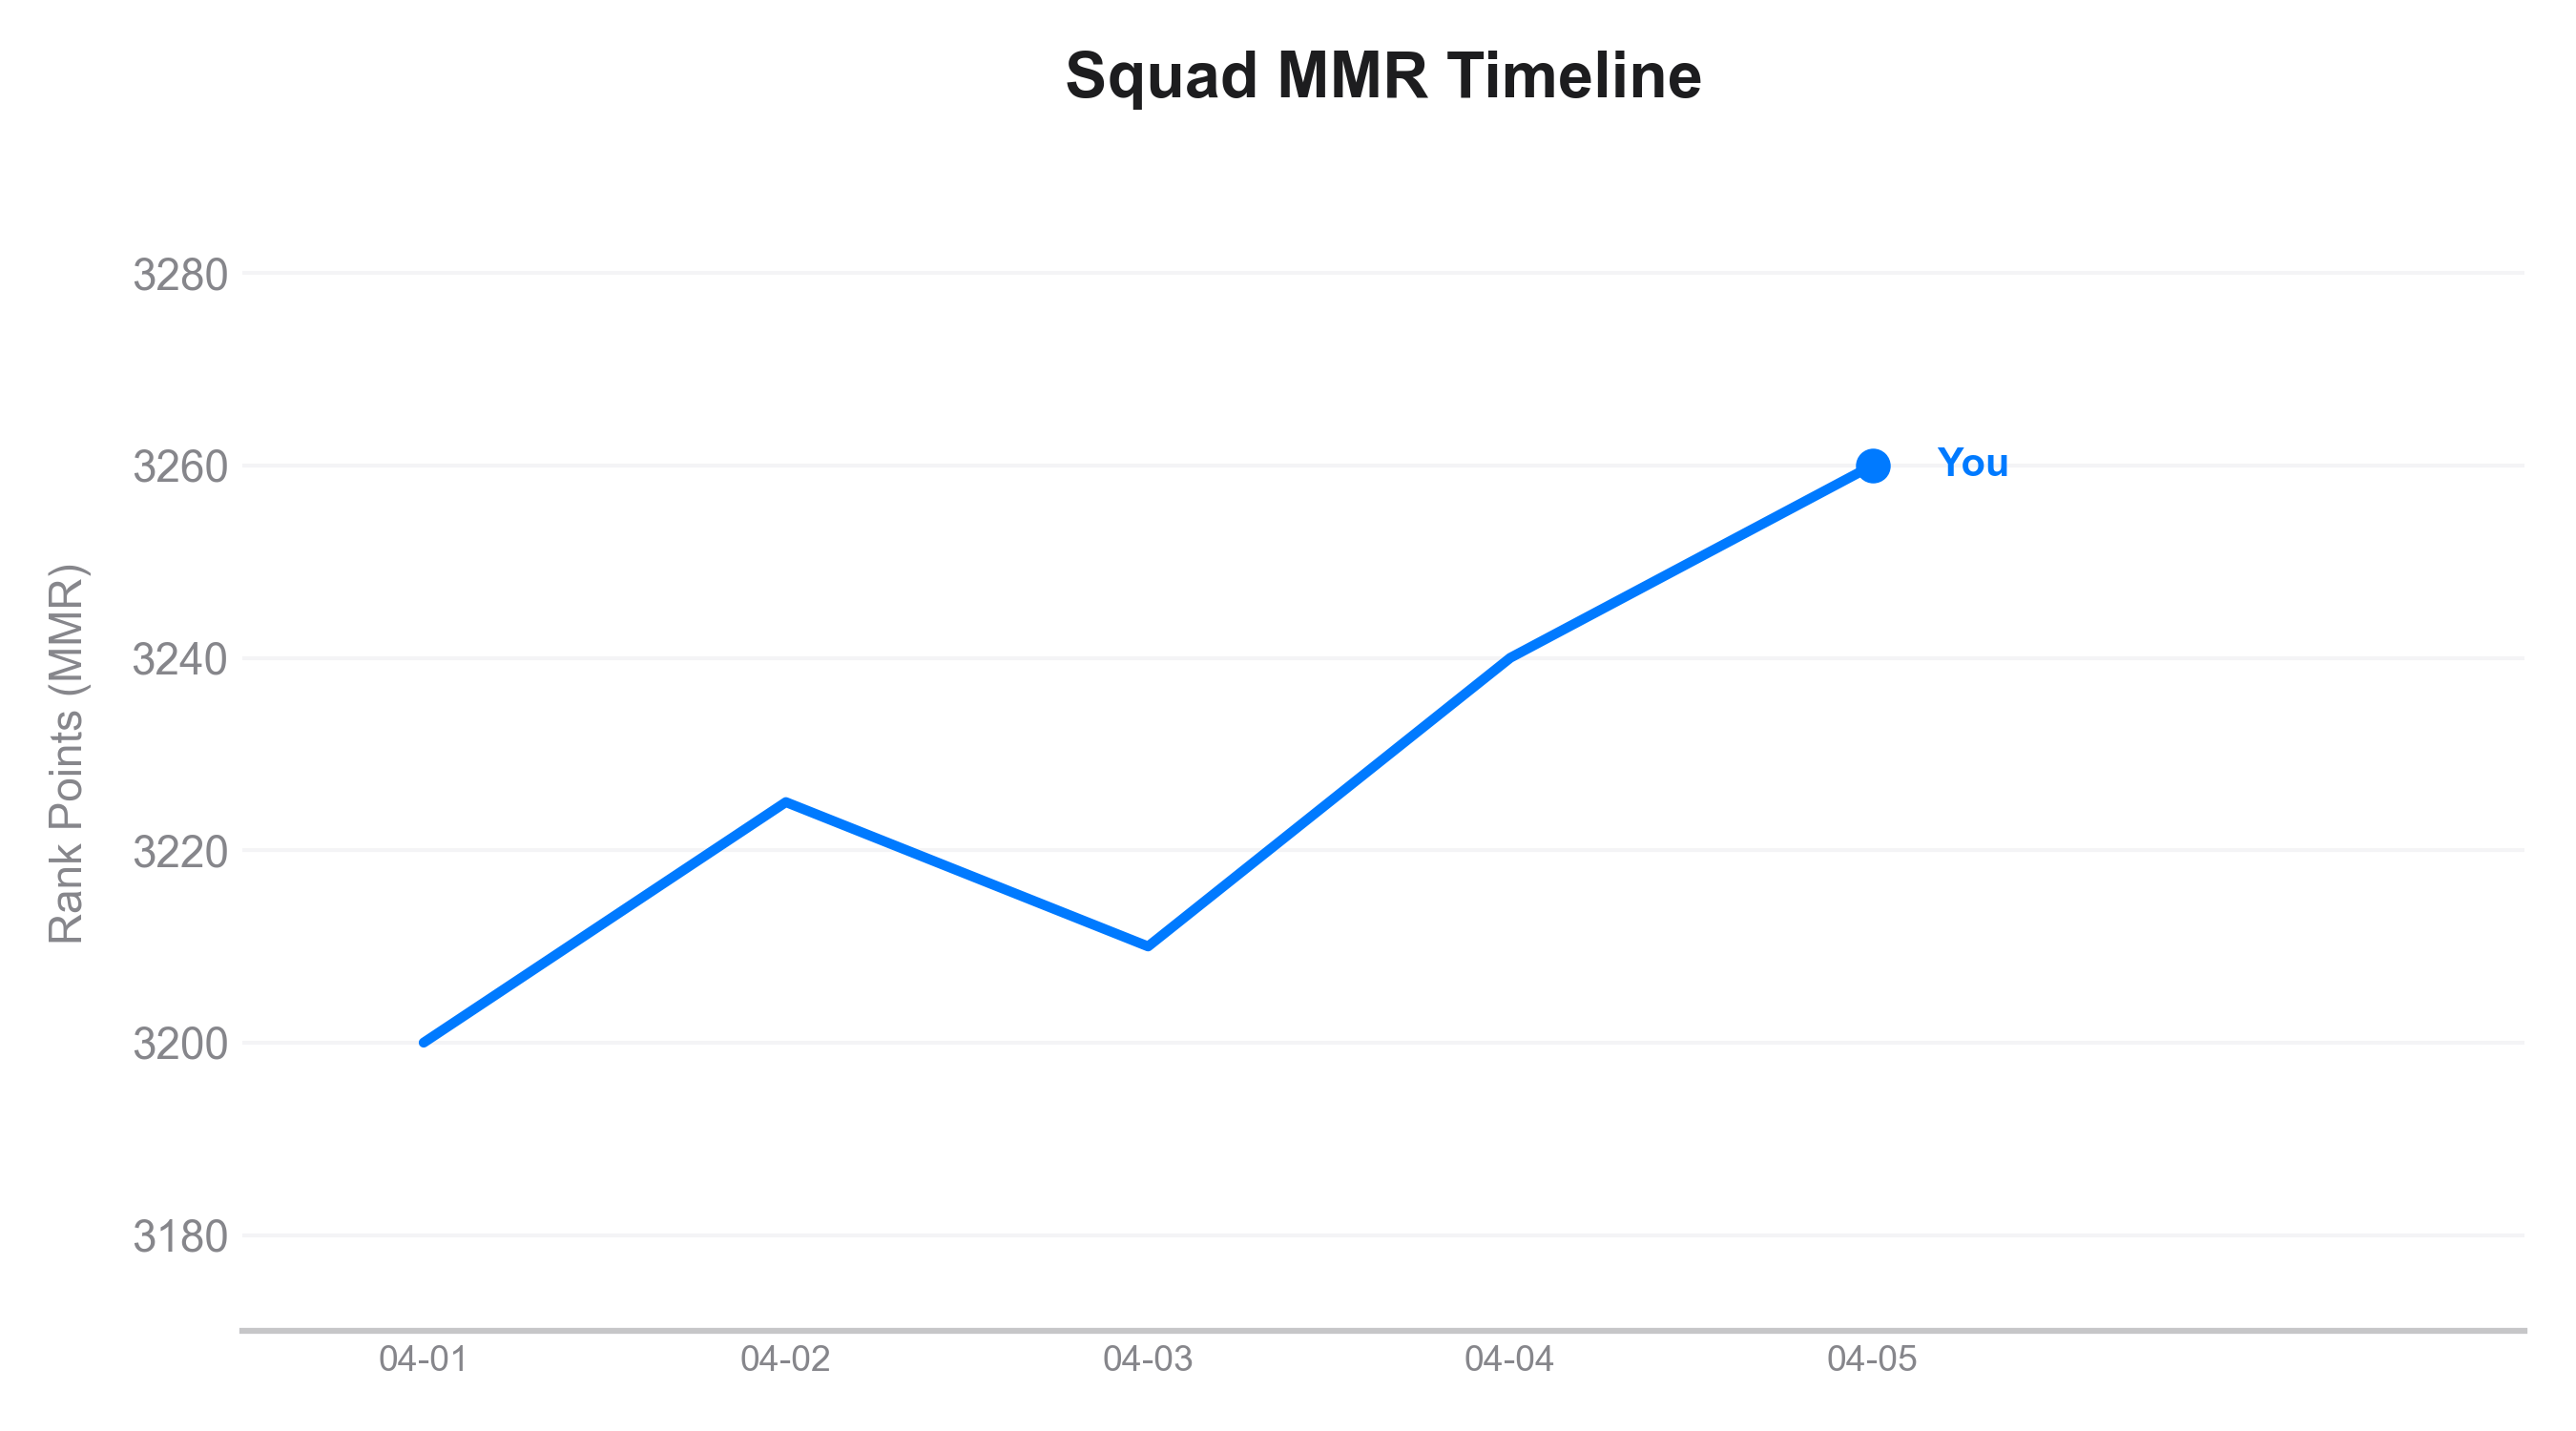
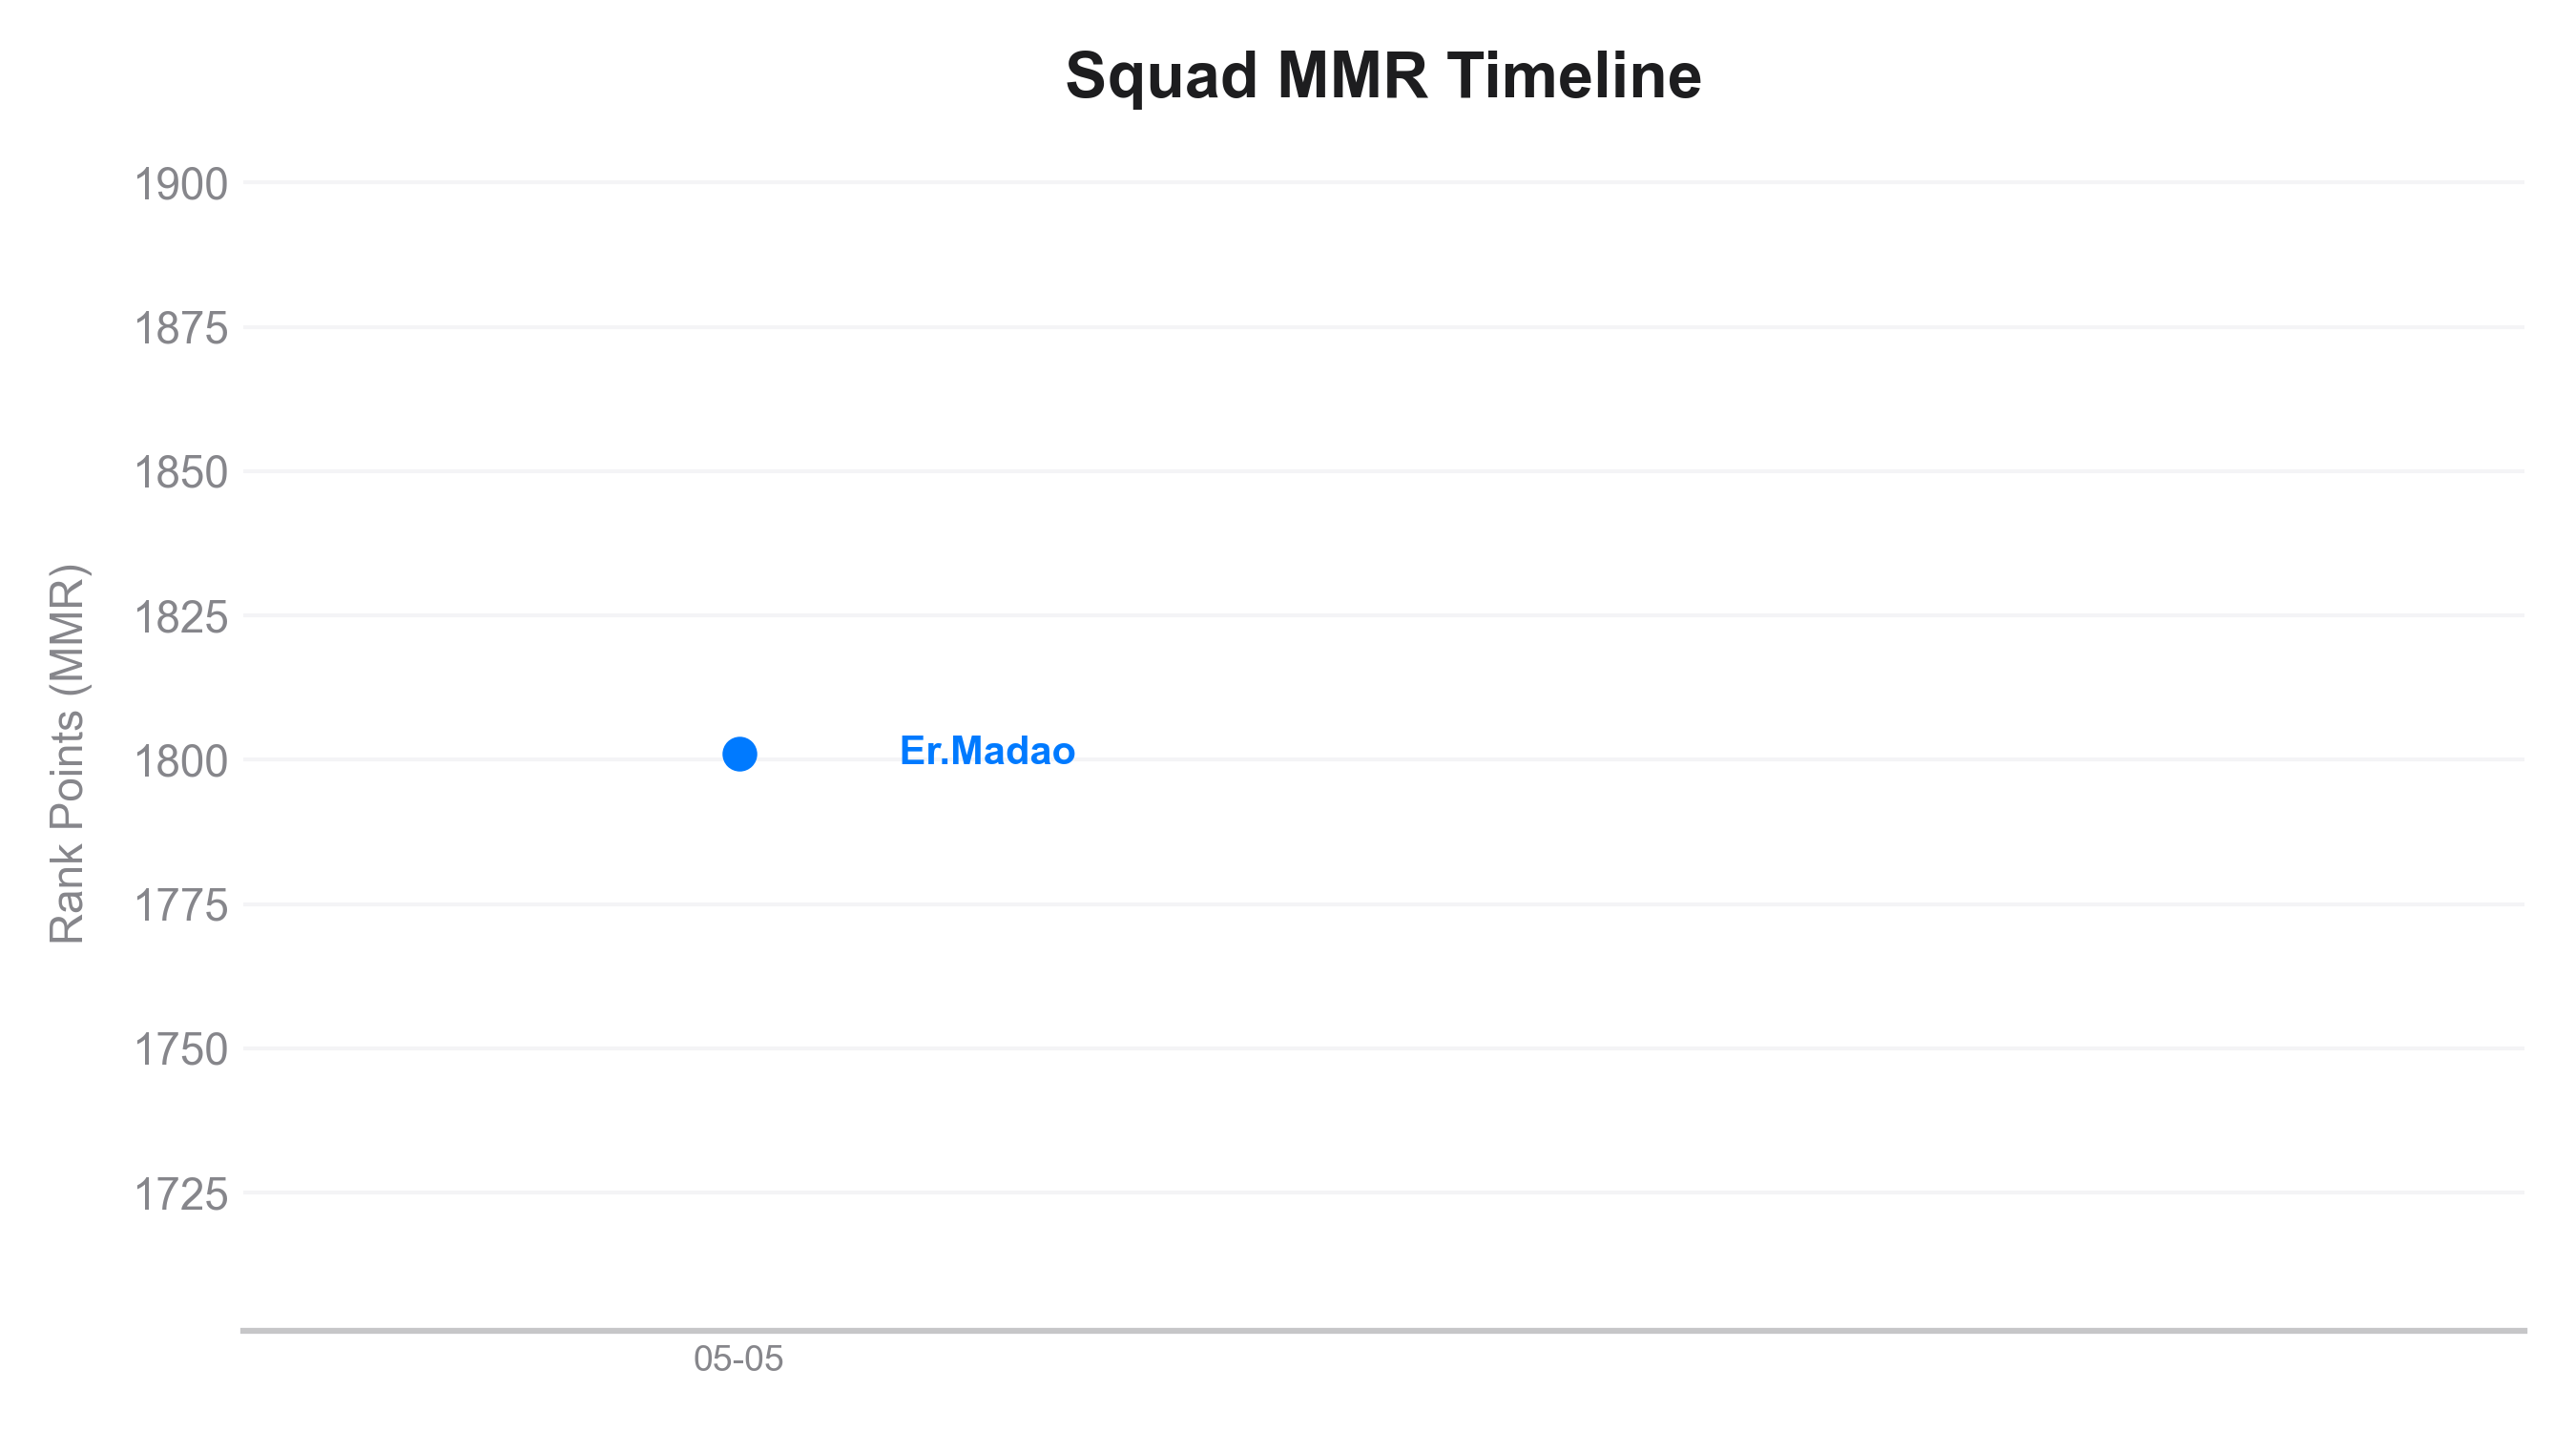
feat: Upgrade to Discord Slash Commands (V5.0) and finalize Playwright scraper integration

diff --git a/src/main.py b/src/main.py
@@ -3,6 +3,7 @@ import json
 import discord
 import pandas as pd
 from discord.ext import commands
+from discord import app_commands
 from dotenv import load_dotenv
 
 from data_processor import load_match_data_from_db, get_synergy_stats
@@ -14,8 +15,6 @@ load_dotenv()
 TOKEN = os.getenv('DISCORD_TOKEN')
 
 intents = discord.Intents.default()
-intents.message_content = True
-
 bot = commands.Bot(command_prefix='!', intents=intents)
 
 USERS_FILE = 'data/users.json'
@@ -34,50 +33,53 @@ def save_users(users_data: dict) -> None:
 async def on_ready():
     print(f'System Online: Logged in securely as {bot.user.name}')
     init_db()
+    try:
+        synced = await bot.tree.sync()
+        print(f"Synced {len(synced)} Slash Commands to Discord.")
+    except Exception as e:
+        print(f"Failed to sync commands: {e}")
 
[email redacted](name='ping')
-async def ping(ctx):
-    await ctx.send(f'Pong! 🏓 Gateway latency: {round(bot.latency * 1000)}ms.')
[email redacted](name='ping', description='Check the latency of the bot.')
+async def ping(interaction: discord.Interaction):
+    await interaction.response.send_message(f'Pong! 🏓 Gateway latency: {round(bot.latency * 1000)}ms.')
 
[email redacted](name='register')
-async def register(ctx, r6_name: str):
-    discord_id = str(ctx.author.id)
[email redacted](name='register', description='Link your Discord account to your exact Ubisoft name.')
+@app_commands.describe(r6_name="Your exact Ubisoft username")
+async def register(interaction: discord.Interaction, r6_name: str):
+    discord_id = str(interaction.user.id)
     users = load_users()
     users[discord_id] = r6_name
     save_users(users)
-    await ctx.send(f"✅ **Registration Complete:** Your Discord is now linked to R6 Player: `{r6_name}`")
+    await interaction.response.send_message(f"✅ **Registration Complete:** Your Discord is now linked to R6 Player: `{r6_name}`")
 
[email redacted](name='rank')
-async def rank(ctx, *members: discord.Member):
-    users = load_users()
-    target_members = members if members else [ctx.author]
-    players_to_graph = []
[email redacted](name='rank', description='Generates an MMR timeline for you and your squad.')
+@app_commands.describe(p1="Squad Member 1", p2="Squad Member 2", p3="Squad Member 3")
+async def rank(interaction: discord.Interaction, p1: discord.Member = None, p2: discord.Member = None, p3: discord.Member = None):
+    await interaction.response.defer()
     
-    status_msg = await ctx.send("🕵️♂️ *Deploying Ghost Browser for MMR Telemetry...*")
-    live_data_found = False
+    users = load_users()
+    target_members = [interaction.user]
+    if p1: target_members.append(p1)
+    if p2: target_members.append(p2)
+    if p3: target_members.append(p3)
+    
+    players_to_graph = []
+    log_messages = []
 
     for member in target_members:
         discord_id = str(member.id)
         r6_name = users.get(discord_id, member.display_name)
+        players_to_graph.append(r6_name)
         
         df_matches = await fetch_recent_matches(r6_name)
         
         if not df_matches.empty and 'RP' in df_matches.columns:
             mmr = int(df_matches.iloc[0]['RP'])
             rank_name = "Ranked (Scraped)"
-            
             log_mmr(r6_name, mmr, rank_name)
-            
-            await ctx.send(f"📡 **Live Scraped Stats for {r6_name}:**\nMMR: **{mmr}**\n*(Snapshot saved to database)*")
-            live_data_found = True
+            log_messages.append(f"✅ Extracted **{mmr}** MMR for {r6_name}")
         else:
-            players_to_graph.append(r6_name)
-
-    if not players_to_graph:
-        await status_msg.delete()
-        if not live_data_found:
-            await ctx.send("❌ **Error:** Scraper failed to extract RP. R6Tracker may be blocking the request.")
-        return
+            log_messages.append(f"⚠️ Scrape failed for {r6_name}. Using local data if available.")
 
     try:
         df = load_match_data_from_db()
@@ -87,66 +89,78 @@ async def rank(ctx, *members: discord.Member):
             if player in df.columns:
                 valid_columns.append(player)
             else:
-                await ctx.send(f"⚠️ **Notice:** No local match data found for `{player}`. Type `!register <R6_Name>` to fix.")
+                log_messages.append(f"❌ No history found for `{player}`. Ensure they are registered.")
                 
         if len(valid_columns) == 1:
-            return await status_msg.edit(content="❌ **Error:** Aborting render. No valid data columns found.")
+            await interaction.edit_original_response(content="\n".join(log_messages) + "\n\n**Aborting:** No valid data to graph.")
+            return
             
         filtered_df = df[valid_columns]
         chart_path = generate_mmr_chart(filtered_df)
         
         discord_file = discord.File(chart_path, filename="mmr_timeline.png")
-        await ctx.send(content="**Squad MMR Timeline (Local Database)**", file=discord_file)
-        await status_msg.delete()
+        header = "**Squad MMR Timeline**\n" + "\n".join(log_messages)
+        
+        await interaction.edit_original_response(content=header, attachments=[discord_file])
         
     except Exception as e:
-        await ctx.send(f"⚠️ **CRITICAL ERROR:** Failed to process telemetry.\n`{e}`")
+        await interaction.edit_original_response(content=f"⚠️ **CRITICAL ERROR:** \n`{e}`")
 
[email redacted](name='mapban')
-async def mapban(ctx, r6_name: str = None):
-    if not r6_name:
-        users = load_users()
-        r6_name = users.get(str(ctx.author.id))
-        if not r6_name:
-            await ctx.send("⚠️ You aren't registered! Type `!register <R6_Name>` or use `!mapban <R6_Name>`.")
-            return
-
-    status_msg = await ctx.send(f"🕵️♂️ *Deploying Ghost Browser... scraping live match history for **{r6_name}**...*")
[email redacted](name='mapban', description='Generates a map ban guide. Filters for shared matches if friends are tagged.')
+@app_commands.describe(p1="Squad Member 1", p2="Squad Member 2")
+async def mapban(interaction: discord.Interaction, p1: discord.Member = None, p2: discord.Member = None):
+    await interaction.response.defer()
     
+    users = load_users()
+    target_members = [interaction.user]
+    if p1: target_members.append(p1)
+    if p2: target_members.append(p2)
+
     try:
-        df = await fetch_recent_matches(r6_name)
-        
-        if df.empty:
-            await status_msg.edit(content=f"❌ Failed to extract match data for {r6_name}.")
+        scraped_dfs = []
+        for member in target_members:
+            r6_name = users.get(str(member.id), member.display_name)
+            df = await fetch_recent_matches(r6_name)
+            if not df.empty:
+                scraped_dfs.append(df)
+
+        if not scraped_dfs:
+            await interaction.edit_original_response(content="❌ Failed to extract match data for any players.")
             return
 
-        map_stats = pd.crosstab(df['Map'], df['Result'])
+        squad_df = scraped_dfs[0]
+        if len(scraped_dfs) > 1:
+            for next_df in scraped_dfs[1:]:
+                squad_df = pd.merge(squad_df, next_df, on=['Map', 'Result'], how='inner')
+
+        if squad_df.empty:
+            await interaction.edit_original_response(content="❌ **No Shared Matches Found:** You don't have any recent overlapping matches with this squad.")
+            return
+
+        map_stats = pd.crosstab(squad_df['Map'], squad_df['Result'])
         
-        if 'Win' not in map_stats.columns:
-            map_stats['Win'] = 0
-        if 'Loss' not in map_stats.columns:
-            map_stats['Loss'] = 0
+        if 'Win' not in map_stats.columns: map_stats['Win'] = 0
+        if 'Loss' not in map_stats.columns: map_stats['Loss'] = 0
 
         chart_path = generate_map_chart(map_stats)
         discord_file = discord.File(chart_path, filename="mapban.png")
         
-        await ctx.send(content=f"📊 **Live Map Analytics for {r6_name}** (Last {len(df)} Matches)", file=discord_file)
-        await status_msg.delete()
+        title = f"Live Map Analytics for Squad" if len(scraped_dfs) > 1 else f"Live Map Analytics for {target_members[0].display_name}"
+        await interaction.edit_original_response(content=f"📊 **{title}** (Found {len(squad_df)} Shared Matches)", attachments=[discord_file])
         
     except Exception as e:
-        await ctx.send(f"⚠️ **CRITICAL ERROR:** Failed to process map analytics.\n`{e}`")
+        await interaction.edit_original_response(content=f"⚠️ **CRITICAL ERROR:** \n`{e}`")
 
[email redacted](name='synergy')
-async def synergy(ctx):
-    status_msg = await ctx.send("⏳ *Running Data Science Synergy Engine...*")
[email redacted](name='synergy', description='View Data Science Operator Synergy Ratings.')
+async def synergy(interaction: discord.Interaction):
+    await interaction.response.defer()
     try:
         synergy_analytics = get_synergy_stats('data/synergy_data.json')
         chart_path = generate_synergy_chart(synergy_analytics)
         discord_file = discord.File(chart_path, filename="synergy_win_rates.png")
-        await ctx.send(content="**Data Science: Operator Synergy Ratings**", file=discord_file)
-        await status_msg.delete()
+        await interaction.edit_original_response(content="**Data Science: Operator Synergy Ratings**", attachments=[discord_file])
     except Exception as e:
-        await ctx.send(f"⚠️ **CRITICAL ERROR:** Failed to process synergy analytics.\n`{e}`")
+        await interaction.edit_original_response(content=f"⚠️ **CRITICAL ERROR:** \n`{e}`")
 
 if __name__ == '__main__':
     if not TOKEN or TOKEN == "your_secret_token_goes_here":

diff --git a/src/visualizer.py b/src/visualizer.py
@@ -4,14 +4,12 @@ import numpy as np
 import matplotlib.pyplot as plt
 import seaborn as sns
 from matplotlib.ticker import MaxNLocator
+import textwrap
 
 def generate_mmr_chart(df, output_path="assets/mmr_timeline.png"):
-    """Generates a modern, legend-free line chart with inline terminal labels."""
     sns.set_theme(style="white")
     
     fig, ax = plt.subplots(figsize=(9, 5))
-
-    # SAFTEY FIX: Force 'date' to datetime before formatting, just in case SQLite passed it as a raw string
     date_strings = pd.to_datetime(df['date']).dt.strftime('%m-%d').tolist()
     
     banned_cols = ['mmr_change', 'round', 'match_id', 'date']
@@ -31,30 +29,23 @@ def generate_mmr_chart(df, output_path="assets/mmr_timeline.png"):
     ax.set_title("Squad MMR Timeline", fontsize=16, fontweight='bold', pad=20, color="#1D1D1F")
     ax.set_ylabel("Rank Points (MMR)", fontsize=11, color="#86868B", labelpad=10)
     ax.set_xlabel("")
-
     ax.grid(axis='y', color='#E5E5EA', linestyle='-', linewidth=1, alpha=0.4, zorder=1)
     ax.grid(axis='x', visible=False)
-
     ax.spines['top'].set_visible(False)
     ax.spines['right'].set_visible(False)
     ax.spines['left'].set_visible(False)
     ax.spines['bottom'].set_visible(True)
     ax.spines['bottom'].set_color("#C6C6C8")
     ax.spines['bottom'].set_linewidth(1.5)
-
     ax.tick_params(axis='x', colors="#86868B", length=0, labelsize=9, rotation=0)
     ax.tick_params(axis='y', colors="#86868B", length=0)
-
-    # Calculate padding dynamically based on the spread of MMR
     all_mmr_values = df[player_cols].values.flatten()
     if len(all_mmr_values) > 0:
         min_mmr = min(all_mmr_values)
         max_mmr = max(all_mmr_values)
         padding = (max_mmr - min_mmr) * 0.5 if max_mmr != min_mmr else 100
         ax.set_ylim(min_mmr - padding, max_mmr + padding)
-
     ax.set_xlim(-0.5, len(date_strings) + 0.8)
-
     os.makedirs(os.path.dirname(output_path), exist_ok=True)
     plt.tight_layout()
     plt.savefig(output_path, dpi=300, transparent=False, facecolor="white")
@@ -62,61 +53,45 @@ def generate_mmr_chart(df, output_path="assets/mmr_timeline.png"):
     
     return output_path
 
-
 def generate_map_chart(stats_df, output_path="assets/map_win_rates.png"):
-    """Generates a clean, grouped bar chart comparing Wins vs Losses per map."""
-    sns.set_theme(style="white") 
-    fig, ax = plt.subplots(figsize=(8, 6))
-
+    sns.set_theme(style="white")
+    fig, ax = plt.subplots(figsize=(10, 6))
     maps = stats_df.index
     x = np.arange(len(maps))
     width = 0.35
-
     ax.bar(x - width/2, stats_df['Win'], width, label='Wins', color='#34C759', zorder=3)
     ax.bar(x + width/2, stats_df['Loss'], width, label='Losses', color='#FF3B30', zorder=3)
-
     ax.set_title("Map Analytics: Objective Ban Guide", fontsize=16, fontweight='bold', pad=25, color="#1D1D1F")
     ax.set_ylabel("Number of Matches", fontsize=11, color="#86868B", labelpad=10)
-
     ax.set_xticks(x)
-    ax.set_xticklabels(maps, color="#1D1D1F", fontweight='medium', ha='center')
-    
+    wrapped_maps = [textwrap.fill(m, width=11, break_long_words=False) for m in maps]
+    ax.set_xticklabels(wrapped_maps, color="#1D1D1F", fontweight='medium', fontsize=9, ha='center')
     ax.yaxis.set_major_locator(MaxNLocator(integer=True))
-
     ax.grid(axis='y', color='#E5E5EA', linestyle='-', linewidth=1, alpha=0.4, zorder=1)
     ax.grid(axis='x', visible=False)
-
     ax.spines['top'].set_visible(False)
     ax.spines['right'].set_visible(False)
     ax.spines['left'].set_visible(False)
     ax.spines['bottom'].set_visible(True)
     ax.spines['bottom'].set_color("#C6C6C8")
     ax.spines['bottom'].set_linewidth(1.5)
-
     ax.tick_params(colors="#86868B", length=0)
-
     max_val = max(stats_df['Win'].max(), stats_df['Loss'].max())
     safe_max = max_val if max_val > 0 else 1
     ax.set_ylim(0, safe_max * 1.25)
-    
     ax.legend(frameon=False, loc='upper right', ncol=2)
-
     os.makedirs(os.path.dirname(output_path), exist_ok=True)
     plt.tight_layout()
     plt.savefig(output_path, dpi=300, transparent=False, facecolor="white")
     plt.close()
-
     return output_path
 
-
 def generate_synergy_chart(stats_df, output_path="assets/synergy_win_rates.png"):
-    """Generates a clean horizontal bar chart showing Duo win rates strictly as percentages."""
     sns.set_theme(style="white")
     fig, ax = plt.subplots(figsize=(8, 6))
-
     y_positions = np.arange(len(stats_df))
     
-    bars = ax.barh(y_positions, stats_df['Win Rate %'], height=0.45, color="#007AFF", zorder=3)
+    ax.barh(y_positions, stats_df['Win Rate %'], height=0.45, color="#007AFF", zorder=3)
     
     ax.set_title("Operator Synergy: Highest Win Rate Duos", fontsize=16, fontweight='bold', pad=25, color="#1D1D1F")
     ax.set_xlabel("Win Rate (%)", fontsize=11, color="#86868B", labelpad=10)
@@ -137,10 +112,8 @@ def generate_synergy_chart(stats_df, output_path="assets/synergy_win_rates.png")
     ax.tick_params(colors="#86868B", length=0)
     
     ax.set_xlim(0, 100)
-
     os.makedirs(os.path.dirname(output_path), exist_ok=True)
     plt.tight_layout()
     plt.savefig(output_path, dpi=300, transparent=False, facecolor="white")
     plt.close()
-
     return output_path